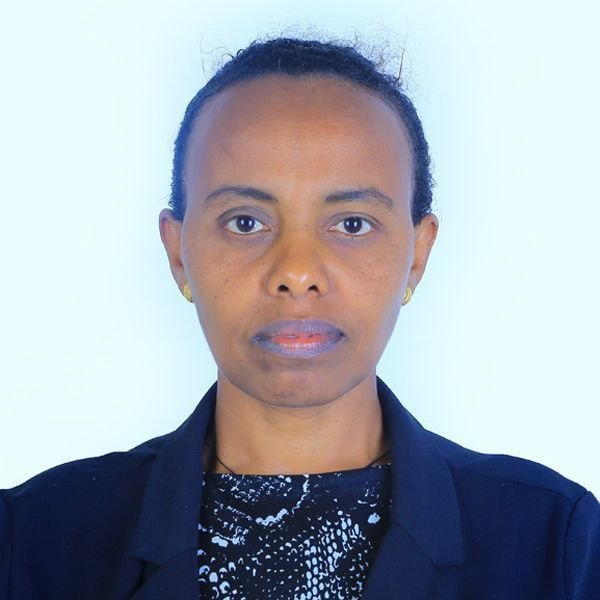
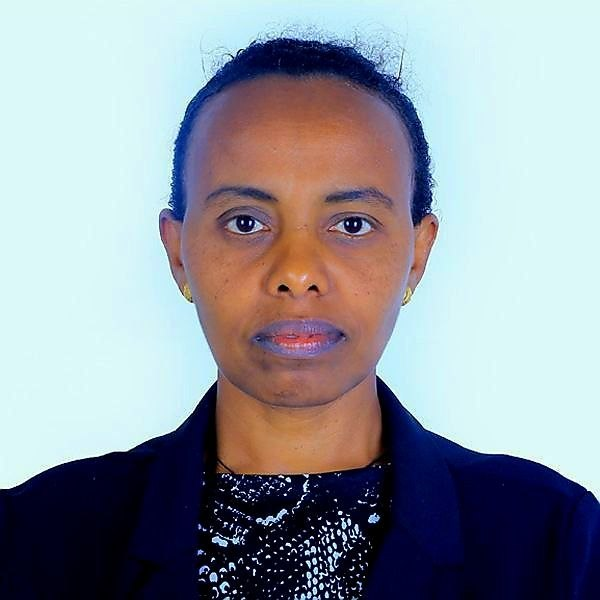
fix: image saturation

diff --git a/src/app/page.tsx b/src/app/page.tsx
@@ -419,7 +419,7 @@ export default function Home() {
                 <div className="absolute inset-0 rounded-full blur-2xl opacity-[0.15]"
                   style={{ background: 'radial-gradient(circle, #B08D3A, transparent)' }} />
                 <img
-                  src="/Atsede Propic.jpeg"
+                  src="/profilepic.jpg"
                   alt="Dr. Atsede Maru Dessie"
                   className="relative w-full h-full object-cover rounded-full shadow-2xl"
                   style={{ border: '3px solid rgba(176,141,58,0.4)', filter: 'grayscale(30%) contrast(1.05)' }}
